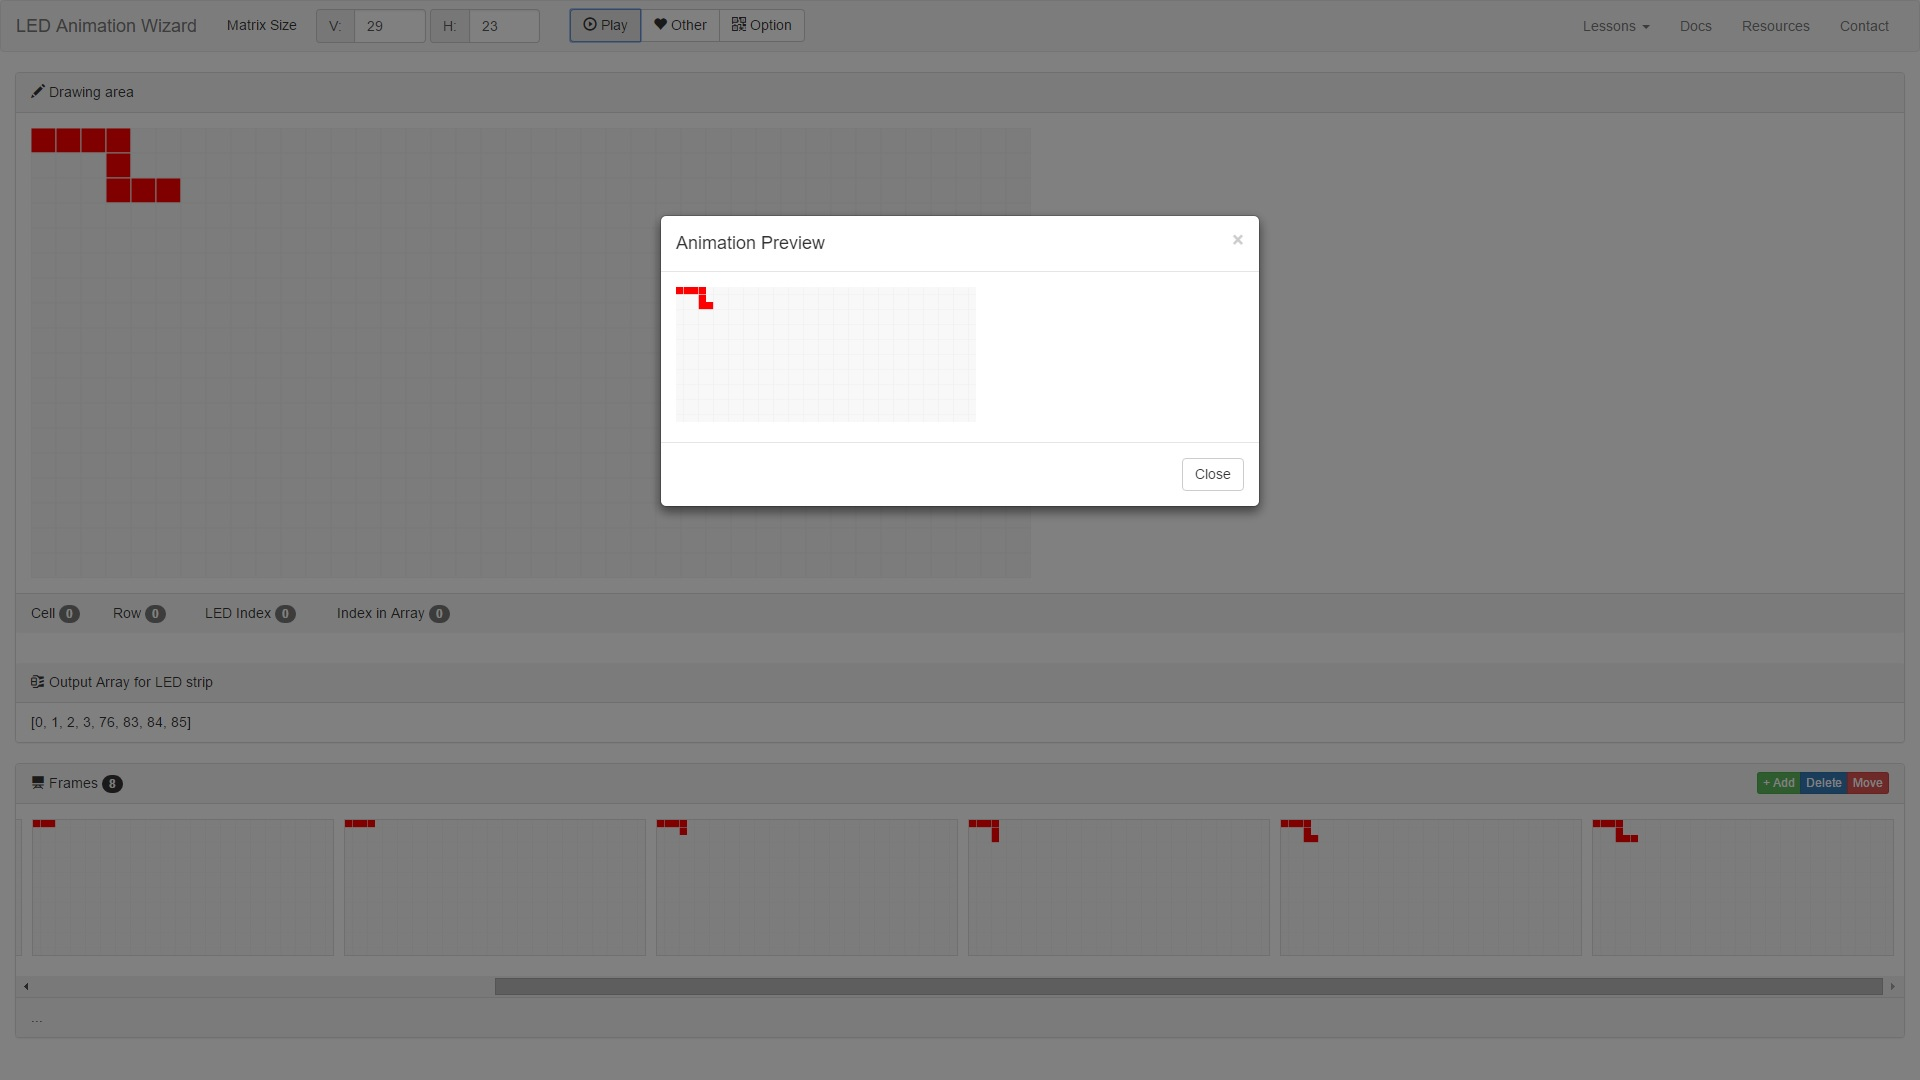
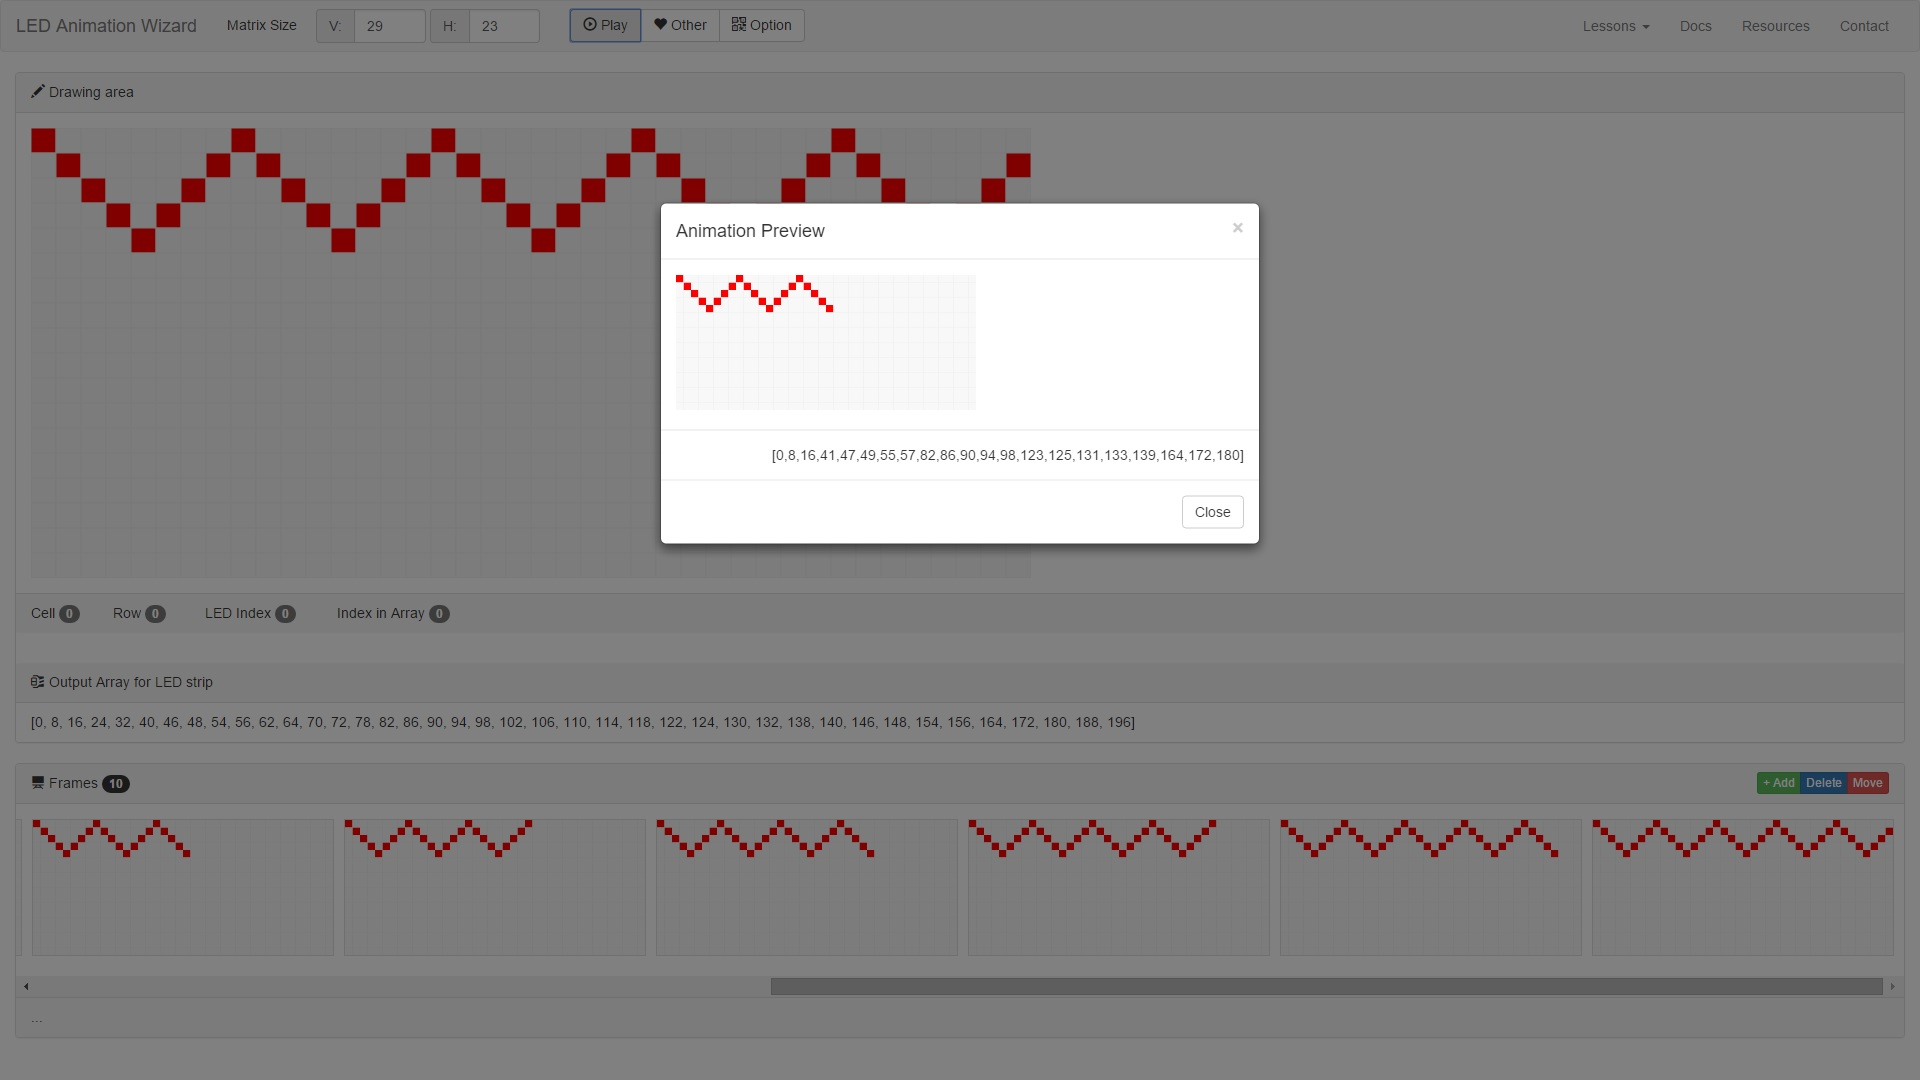
Animation preview with LED Array coordinates.

diff --git a/src/app/components/preview/preview.directive.js b/src/app/components/preview/preview.directive.js
@@ -27,7 +27,7 @@ class PreviewDirective {
 }
 
 class PreviewController {
-    constructor($rootScope, $timeout, $scope, $log, $element, Broadcast) {
+    constructor($rootScope, $timeout, $scope, $log, $element, Broadcast, Collector) {
         'ngInject';
 
         var _self = this;
@@ -38,6 +38,7 @@ class PreviewController {
         this.$scope = $scope;
         this.$rootScope = $rootScope;
         this.Broadcast = Broadcast;
+        this.Collector = Collector;
 
         this.domElements = {};
         this.constants = {
@@ -48,7 +49,8 @@ class PreviewController {
                 },
                 selectors: {
                     frames: 'div.directive-frames canvas',
-                    body: 'div.modal-body'
+                    body: 'div.modal-body',
+                    LEDArray: 'div.LEDArray'
                 }
 
             }
@@ -71,6 +73,7 @@ class PreviewController {
 
         _self.domElements.frames = document.querySelectorAll(_self.constants.css.selectors.frames);
         _self.domElements.body = _self.$element.querySelector(_self.constants.css.selectors.body);
+        _self.domElements.LEDArray = _self.$element.querySelector(_self.constants.css.selectors.LEDArray);
 
         /**
          * Clear the current preview set.
@@ -149,6 +152,8 @@ class PreviewController {
             frames[currentIndex].classList.remove(_self.constants.css.classes.hide);
 
             _self.$log.debug('Frame %d of %d', currentIndex + 1, frames.length);
+
+            _self.domElements.LEDArray.innerText = '[' +_self.Collector.frames[currentIndex].getLEDArray().join(', ') + ']';
 
             previousIndex = currentIndex;
             currentIndex++;

diff --git a/src/app/components/drawer/drawer.directive.js b/src/app/components/drawer/drawer.directive.js
@@ -60,7 +60,7 @@ class DrawerDirective {
 }
 
 class DrawerController {
-    constructor($rootScope, $timeout, $scope, $log, $element, Broadcast) {
+    constructor($rootScope, $timeout, $scope, $log, $element, Broadcast, Collector) {
         'ngInject';
 
         var _self = this;
@@ -70,6 +70,7 @@ class DrawerController {
         this.$timeout = $timeout;
         this.$rootScope = $rootScope;
         this.Broadcast = Broadcast;
+        this.Collector = Collector;
 
         this.canvas = {};
 
@@ -194,7 +195,7 @@ class DrawerController {
             this._coordinates = [];
         }
 
-        this.drawPixels([0,1,2]);
+        this.drawPixels();
     }
 
     setPixel(position) {
@@ -233,6 +234,10 @@ class DrawerController {
 
     drawPixels(coordinates) {
         coordinates = coordinates || [];
+
+        if(this.Collector.frames.length > 0) {
+            this.Collector.frames[this.Collector.selected].setLEDArray(coordinates);
+        }
 
         this.$log.info('Drawing pixels... [coordinates: %O]', coordinates);
 

diff --git a/src/app/components/frames/frames.directive.js b/src/app/components/frames/frames.directive.js
@@ -100,14 +100,15 @@ class FramesController {
     setActiveFrame(index) {
         this.$log.info('Active frame is %d', index);
         this.states.activeFrame = index;
-        this.selected = index;
+        //this.selected = index;
+        this.Collector.selected = index;
     }
 
     applyPreview(frameId) {
-        this.$log.info('Applying preview to frame %s.', this.selected);
+        this.$log.info('Applying preview to frame %s.', this.Collector.selected);
         var _self = this;
 
-        frameId = frameId || _self.Collector.frames[_self.selected].id;
+        frameId = frameId || _self.Collector.frames[_self.Collector.selected].id;
 
         setTimeout(function() {
             var baseCanvas = _self.source.background;

diff --git a/src/app/components/services/frame.factory.js b/src/app/components/services/frame.factory.js
@@ -22,6 +22,7 @@ export default class FrameFactory {
 
             this.id = id;
             this.holder = document.querySelector(holder);
+            this.LEDArray = [];
 
             if(this.holder === null) {
                 throw new Error('Could not find DOM element: ' + holder);
@@ -29,6 +30,15 @@ export default class FrameFactory {
 
             this.profile1 = 'marcin';
             //this.addCanvas();
+        };
+
+        Frame.prototype.setLEDArray = function(collection) {
+            this.LEDArray.length = 0;
+            this.LEDArray = collection;
+        };
+
+        Frame.prototype.getLEDArray = function() {
+            return this.LEDArray;
         };
 
         Frame.prototype.getProfiler = function() {

diff --git a/src/app/components/preview/preview.html b/src/app/components/preview/preview.html
@@ -9,6 +9,9 @@
       <div class="modal-body">
         <canvas></canvas>
       </div>
+      <div class="modal-footer LEDArray">
+        []
+      </div>
       <div class="modal-footer">
         <button type="button" class="btn btn-default" data-dismiss="modal" ng-click="prev.close()">Close</button>
       </div>

diff --git a/src/app/components/services/collector.service.js b/src/app/components/services/collector.service.js
@@ -3,7 +3,8 @@ export default class CollectorService {
         'ngInject';
 
         var collector = {
-            frames: []
+            frames: [],
+            selected: 0
         };
 
         return collector;

diff --git a/TODO.md b/TODO.md
@@ -1,10 +1,10 @@
 ### FIXMEs
 | Filename | line # | FIXME
 |:------|:------:|:------
-| components\drawer\drawer.directive.js | 134 | layerX and layerY are buggy on the Internet Explorer!!!
+| components\drawer\drawer.directive.js | 135 | layerX and layerY are buggy on the Internet Explorer!!!
 
 ### TODOs
 | Filename | line # | TODO
 |:------|:------:|:------
-| components\drawer\drawer.directive.js | 255 | Optimize the way how the pixels are drawing.
-| components\preview\preview.directive.js | 68 | Make the canvas wider and more well-fitting.
+| components\drawer\drawer.directive.js | 260 | Optimize the way how the pixels are drawing.
+| components\preview\preview.directive.js | 70 | Make the canvas wider and more well-fitting.
